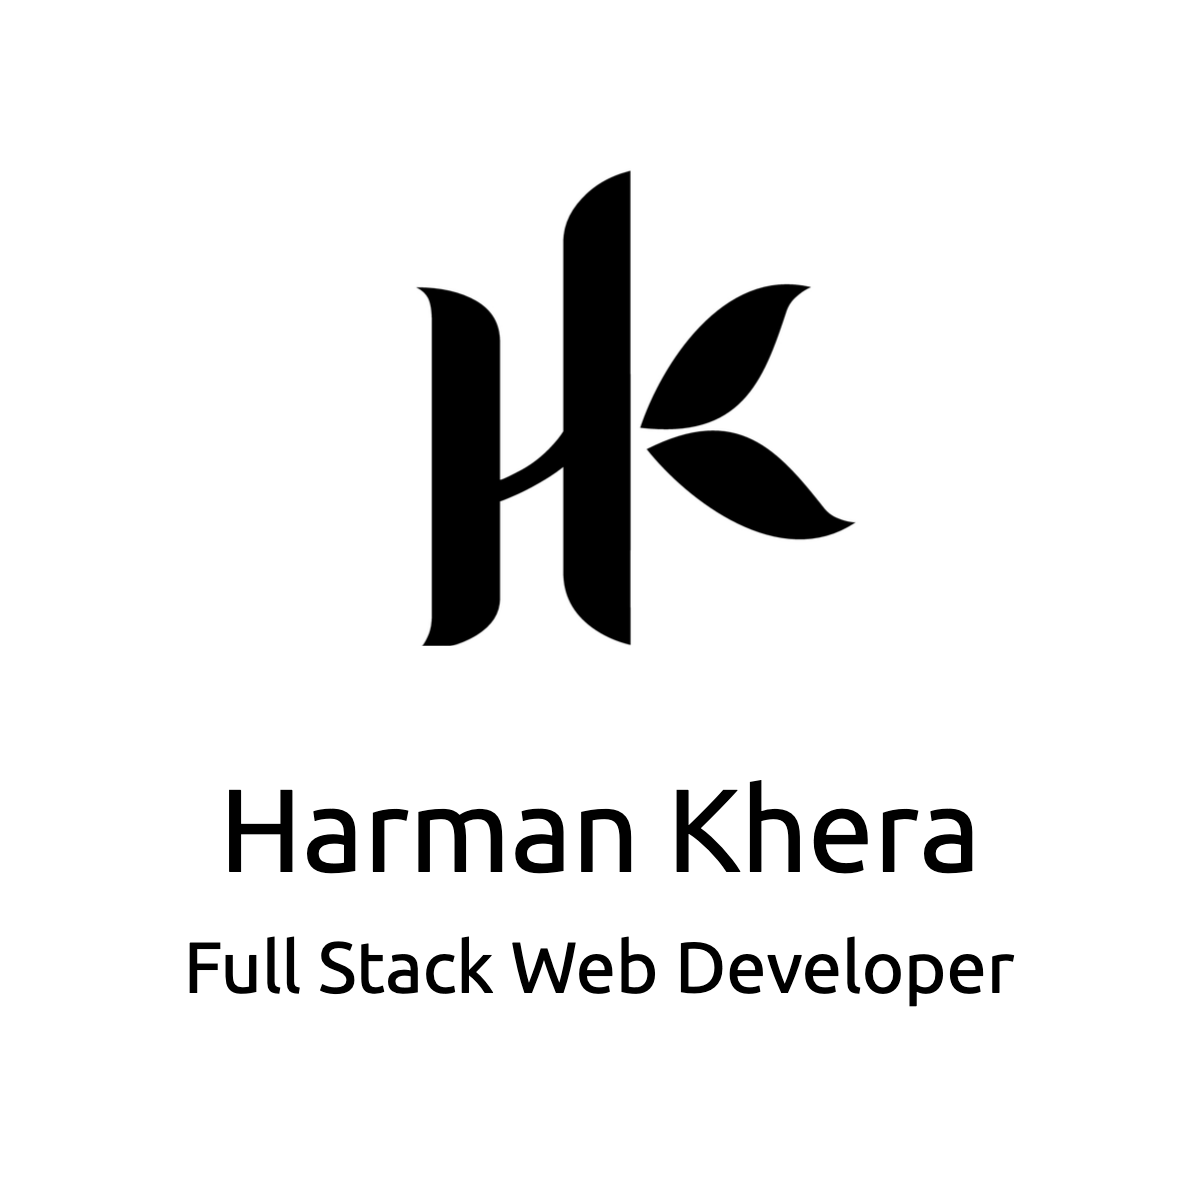
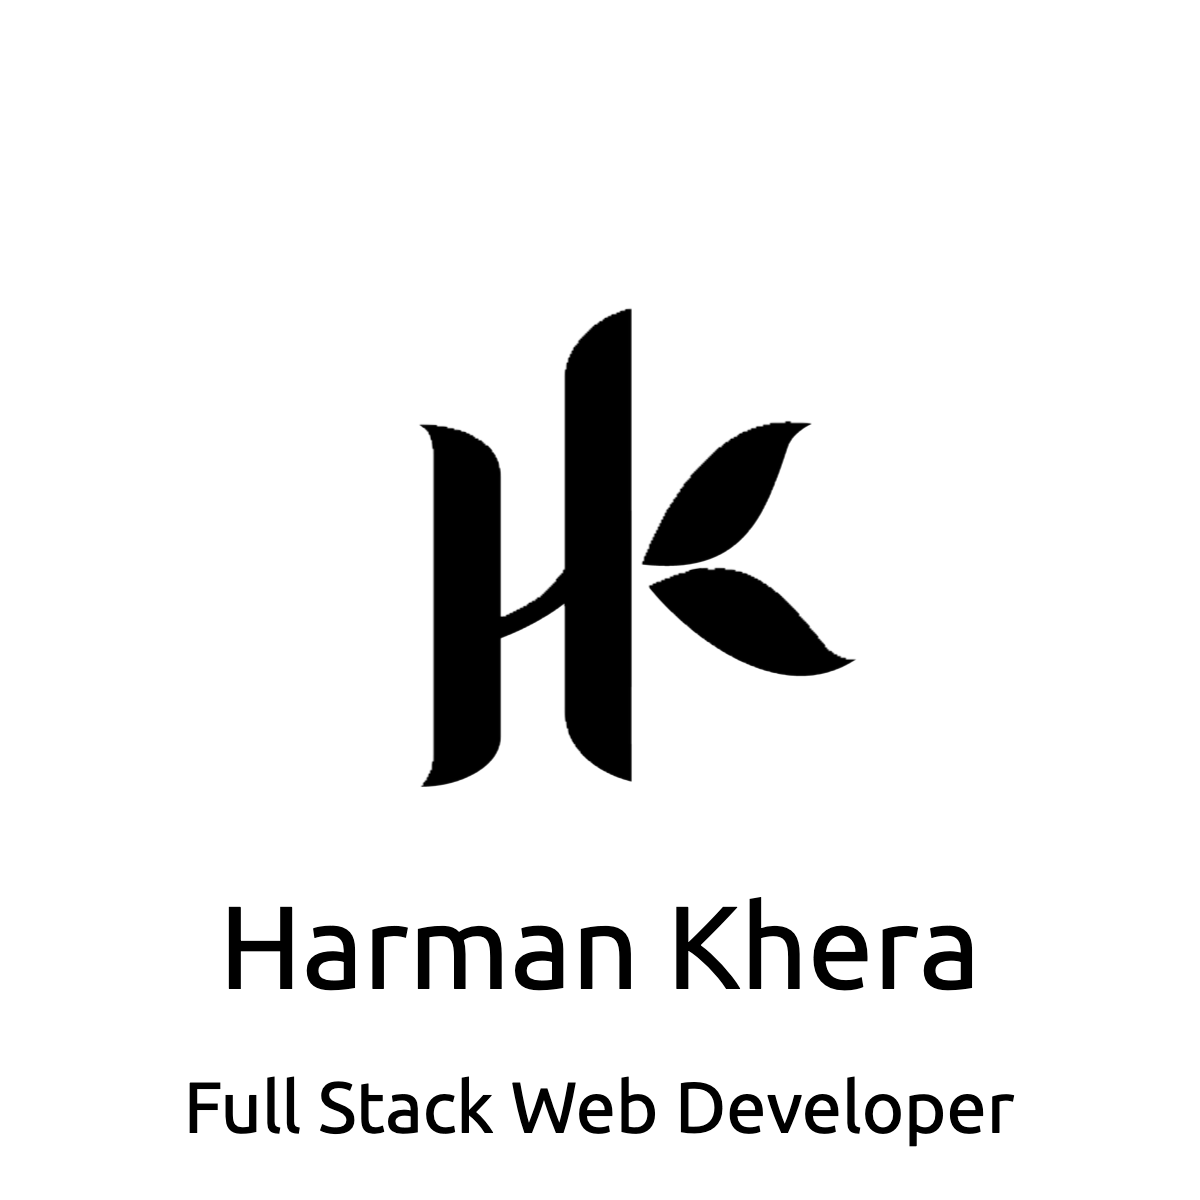
nav bar transition

Changed region(s): [[0.1542, 0.1233, 0.8325, 0.8325], [0.5242, 0.2158, 0.7092, 0.5858], [0.1542, 0.8942, 0.8325, 0.9558]]

diff --git a/client/src/components/NavMenu/NavMenu.tsx b/client/src/components/NavMenu/NavMenu.tsx
@@ -2,7 +2,11 @@ import React, { useState, useEffect } from 'react';
 import { Link } from 'react-router-dom'
 import './NavMenu.scss'
 
-const NavMenu: React.FC = () => {
+interface Props {
+    scroll: (id: string) => void
+}
+
+const NavMenu: React.FC<Props> = ({ scroll }) => {
     const [stickyClass, setStickyClass] = useState<string>('');
     let intViewportHeight: number = window.innerHeight;
 
@@ -14,16 +18,16 @@ const NavMenu: React.FC = () => {
     const stickNavbar = () => {
         if (window !== undefined) {
         let windowHeight = window.scrollY;
-        windowHeight > intViewportHeight ? setStickyClass('navmenu--sticky') : setStickyClass('');
+        windowHeight > (intViewportHeight) ? setStickyClass('navmenu--sticky') : setStickyClass('');
         }
     };
 
     return (
         <nav className={`navmenu ${stickyClass}`}>
-            <Link to="/"><p className='navmenu__link'>Home</p></Link>
-            <Link to="/about"><p className='navmenu__link'>About</p></Link>
-            <Link to="/portfolio"><p className='navmenu__link'>Portfolio</p></Link>
-            <Link to="/contact"><p className='navmenu__link'>Contact</p></Link>
+            <Link to={{hash: '#home'}} onClick={() => scroll('#home')}><p className='navmenu__link'>Home</p></Link>
+            {/* <Link to="/about"><p className='navmenu__link'>About</p></Link> */}
+            <Link to={{hash: '#portfolio'}} onClick={() => scroll('#portfolio')}><p className='navmenu__link'>Portfolio</p></Link>
+            <Link to={{hash: '#contact'}} onClick={() => scroll('#contact')}><p className='navmenu__link'>Contact</p></Link>
         </nav>
     );
 }

diff --git a/client/src/pages/Home/Home.tsx b/client/src/pages/Home/Home.tsx
@@ -1,15 +1,23 @@
 import './Home.scss'
 import webDev from '../../assets/images/hk_webdev.png'
+import hk_transparent from '../../assets/images/hk_transparent.png'
 
-function Home() {
+interface Props {
+    scroll: (id: string) => void
+}
+
+const Home: React.FC<Props> = ({ scroll }) => {
     return (
-        <div className="home">
-            <img src={webDev} alt='webdev' className="home__image" />
-            {/* <h1 className="home__title">Harman Khera</h1> */}
-            {/* <h3 className="home__subtitle">Full Stack Web Developer</h3> */}
+        <div className="home" id='home'>
+            <img src={hk_transparent} alt='webdev' className="home__image" />
 
-            <button className="home__cta" onClick={() => {}}>View my work</button>
-            <button className="home__cta" onClick={() => {}}>Get in touch</button>
+            <h1 className="home__title">Hi, I'm Harman Khera</h1>
+            <h1 className="home__title">Full Stack Web Developer</h1>
+
+            <div className="home__buttons">
+                <button className="home__cta" onClick={() => {scroll("#portfolio")}}>View my work</button>
+                <button className="home__cta" onClick={() => {}}>Get in touch</button>
+            </div>
         
         </div>
     )

diff --git a/client/src/pages/Portfolio/Portfolio.tsx b/client/src/pages/Portfolio/Portfolio.tsx
@@ -20,13 +20,13 @@ const Portfolio: React.FC = () => {
     }
 
     return (
-        <div className='portfolio'>
+        <div className='portfolio' id='portfolio'>
             {modalProjectName ? <Modal showModal={showModal} 
                 handleClose={hideModal}
                 images={modalProject.images}
                 modalProject={modalProject}
                 /> : "" }
-            <h2>Projects</h2>
+            <h2 className='portfolio__title'>Projects</h2>
             <div className="portfolio__grid">
                 {projects.map(project => {
                     return <Preview 

diff --git a/client/src/pages/Home/Home.scss b/client/src/pages/Home/Home.scss
@@ -1,19 +1,19 @@
 .home {
     width: 100%;
-    height: 100vh;
+    height: calc(100vh + 48px);
     display: flex;
     flex-direction: column;
     // justify-content: center;
     align-items: center;
-    // background-color: rgb(245, 228, 239);
+    background-color: whitesmoke;
     
     &__image {
         width: 50%;
         max-width: 550px;
     }
 
-    &__title {
-        
+    &__buttons {
+        display: flex;
     }
 
     &__cta {
@@ -23,6 +23,7 @@
         width: 12rem;
         transition: all 1s;
         font-size: 1.5rem;
+        cursor: pointer;
 
 
         &:hover {

diff --git a/client/src/App.tsx b/client/src/App.tsx
@@ -5,11 +5,19 @@ import Portfolio from './pages/Portfolio/Portfolio';
 import './App.scss';
 
 const App: React.FC = () => {
+
+	const scroll = (id: string) => {
+        const section = document.querySelector( id );
+        if (section) {
+            section.scrollIntoView( { behavior: 'smooth', block: 'start' } );
+        }
+    };
+
 	return (
 		<BrowserRouter>
 			<div className="App">
-				<Home />
-				<NavMenu />
+				<Home scroll={scroll} />
+				<NavMenu scroll={scroll}/>
 				<Routes>
 					{/* <Route path="/" element={<Home/>} /> */}
 					<Route path="/bandsite" />

diff --git a/client/src/components/NavMenu/NavMenu.scss b/client/src/components/NavMenu/NavMenu.scss
@@ -1,17 +1,27 @@
 @use '../../styles/partials/mixins' as *;
 @use '../../styles/partials/colors' as *;
 
+@keyframes slideDown {
+    0% {
+        transform: translateY(-100px);
+    }
+}
+
 .navmenu {
 
     background-color: whitesmoke;
     height: 3rem;
     width: 100%;
+    border-bottom: 2px solid green;
+    position: absolute;
+    bottom: -48px;
 
     &--sticky {
         position: fixed;
         top: 0;
         left: 0;
         z-index: 10;
+        animation: slideDown 0.75s;
     }
 
     @include tablet {

diff --git a/client/src/pages/About/About.tsx b/client/src/pages/About/About.tsx
@@ -1,0 +1,11 @@
+import './About.scss';
+
+function About() {
+  return (
+    <div>What excites me most about web dev is the opportunity it provides to come up with creative solutions to real world problems.
+    I'm developing the skills needed in order to leverage tech to empower people in working towards building a sustainable future.</div>
+  )
+}
+
+
+export default About

diff --git a/client/src/pages/Portfolio/Portfolio.scss b/client/src/pages/Portfolio/Portfolio.scss
@@ -3,6 +3,7 @@
     flex-direction: column;
     width: 100%;
     align-items: center;
+    padding-top: 5rem;
 
     &__grid {
         width: 95%;
